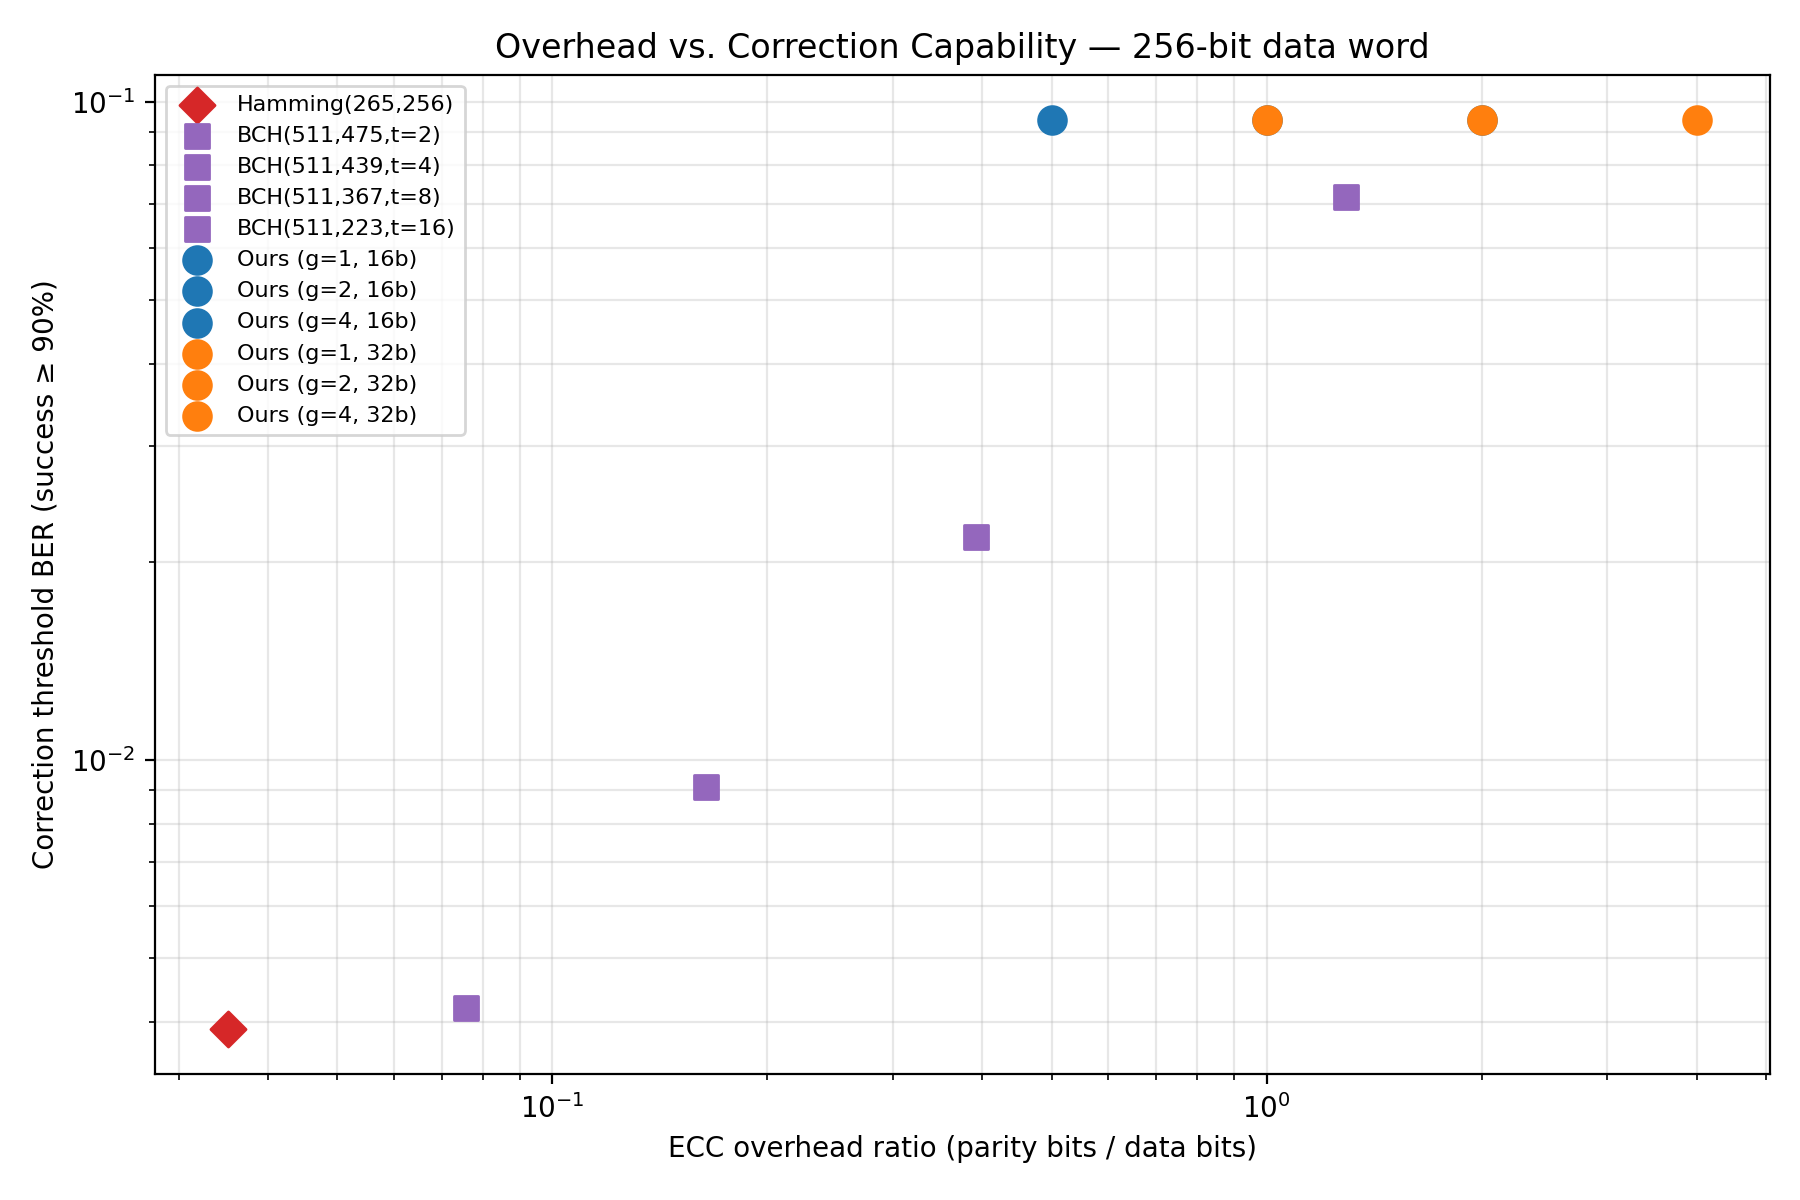
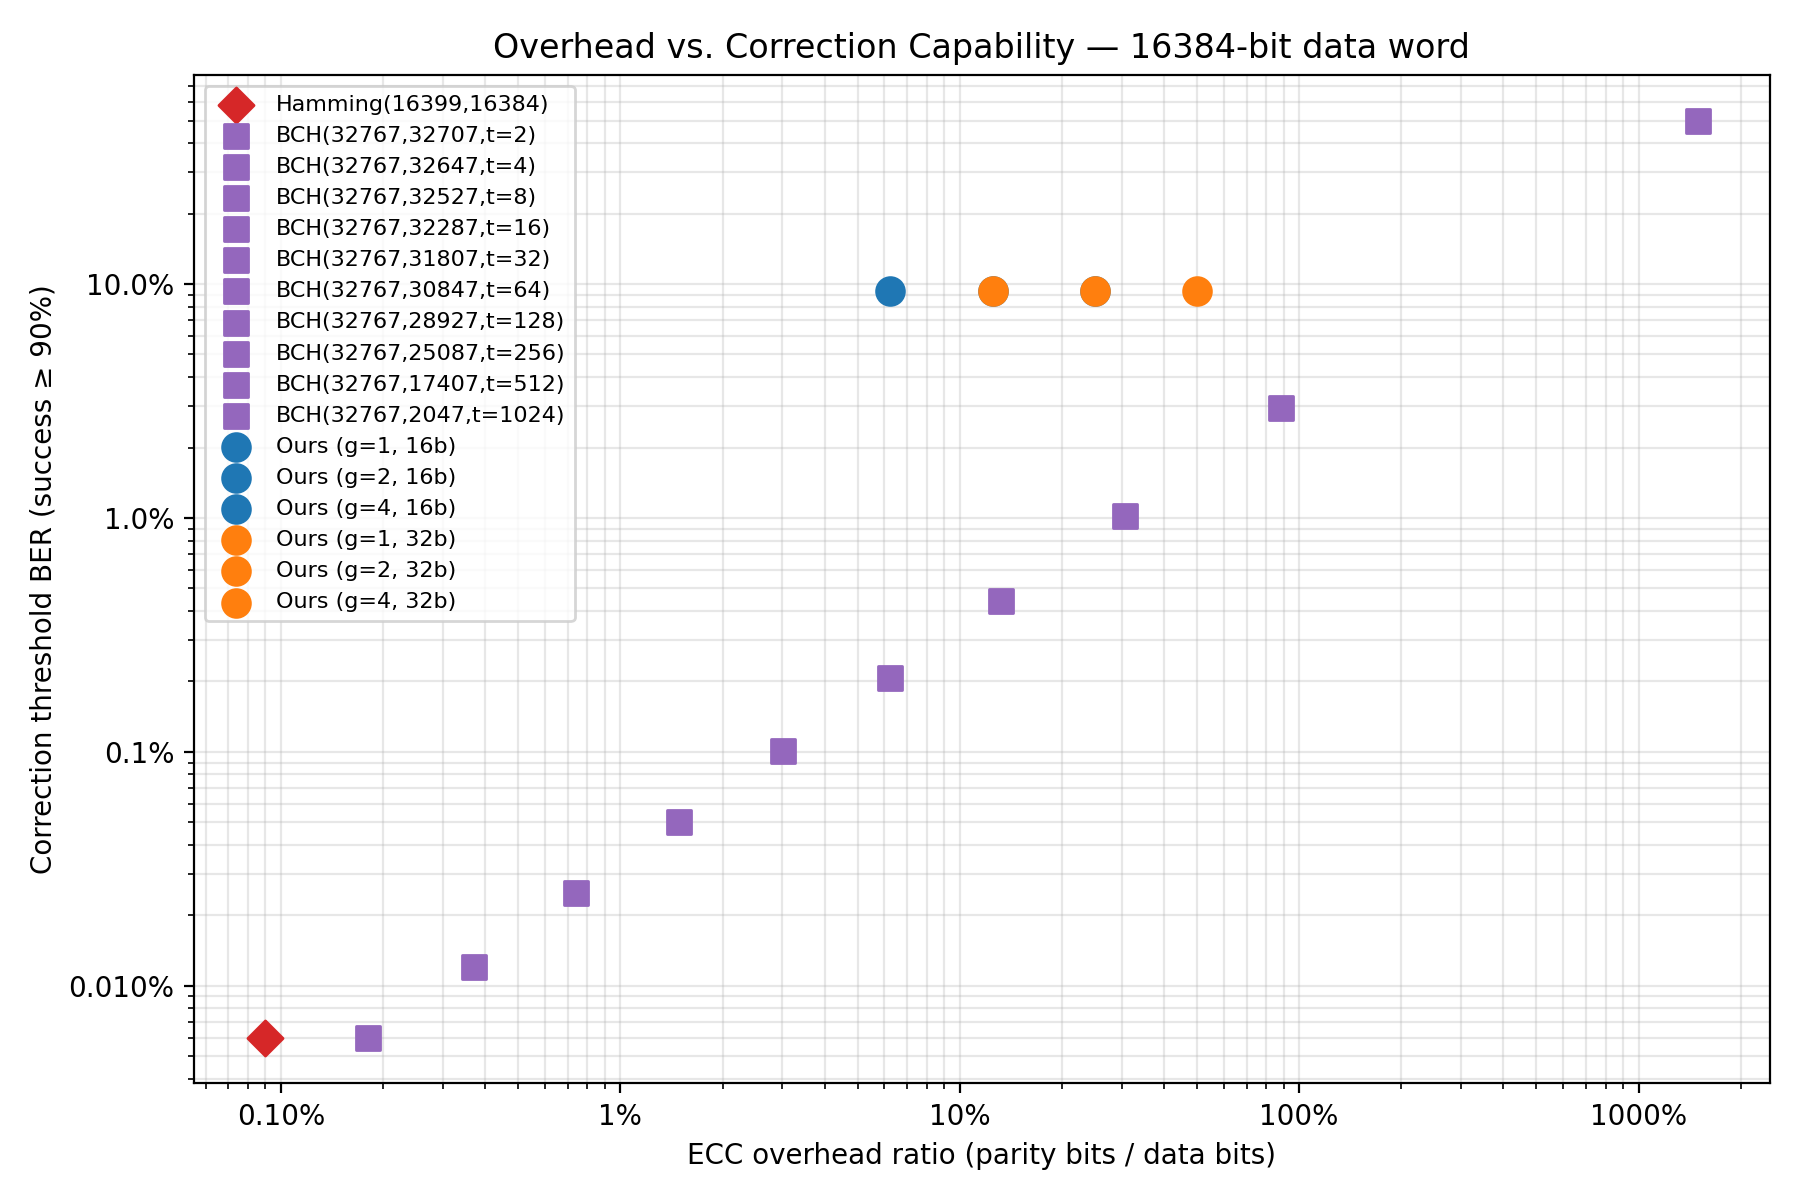
changes

diff --git a/figure_d_overhead.py b/figure_d_overhead.py
@@ -88,7 +88,7 @@ def main() -> None:
         "source": "analytic",
     })
 
-    for t in [2, 4, 8, 16]:
+    for t in [2, 4, 8, 16, 32, 64, 128, 256, 512, 1024]:
         b = bch_overhead(args.bit_length, t)
         ref_points.append({
             "scheme": b["scheme"],
@@ -183,6 +183,8 @@ def main() -> None:
     ax.set_title(f"Overhead vs. Correction Capability — {args.bit_length}-bit data word")
     ax.set_xscale("log")
     ax.set_yscale("log")
+    ax.xaxis.set_major_formatter(plt.FuncFormatter(lambda x, _: f"{x:.0%}" if x >= 0.01 else f"{x:.2%}"))
+    ax.yaxis.set_major_formatter(plt.FuncFormatter(lambda y, _: f"{y:.1%}" if y >= 0.001 else f"{y:.3%}"))
     ax.grid(True, alpha=0.3, which="both")
     ax.legend(fontsize=8, loc="upper left")
     plt.tight_layout()

diff --git a/figure_f_scalability.py b/figure_f_scalability.py
@@ -27,7 +27,6 @@ from experiments.common import (
 GROUP_CONFIGS = [
     (1, 1, "g=1"),
     (2, 2, "g=2"),
-    (4, 4, "g=4"),
 ]
 
 